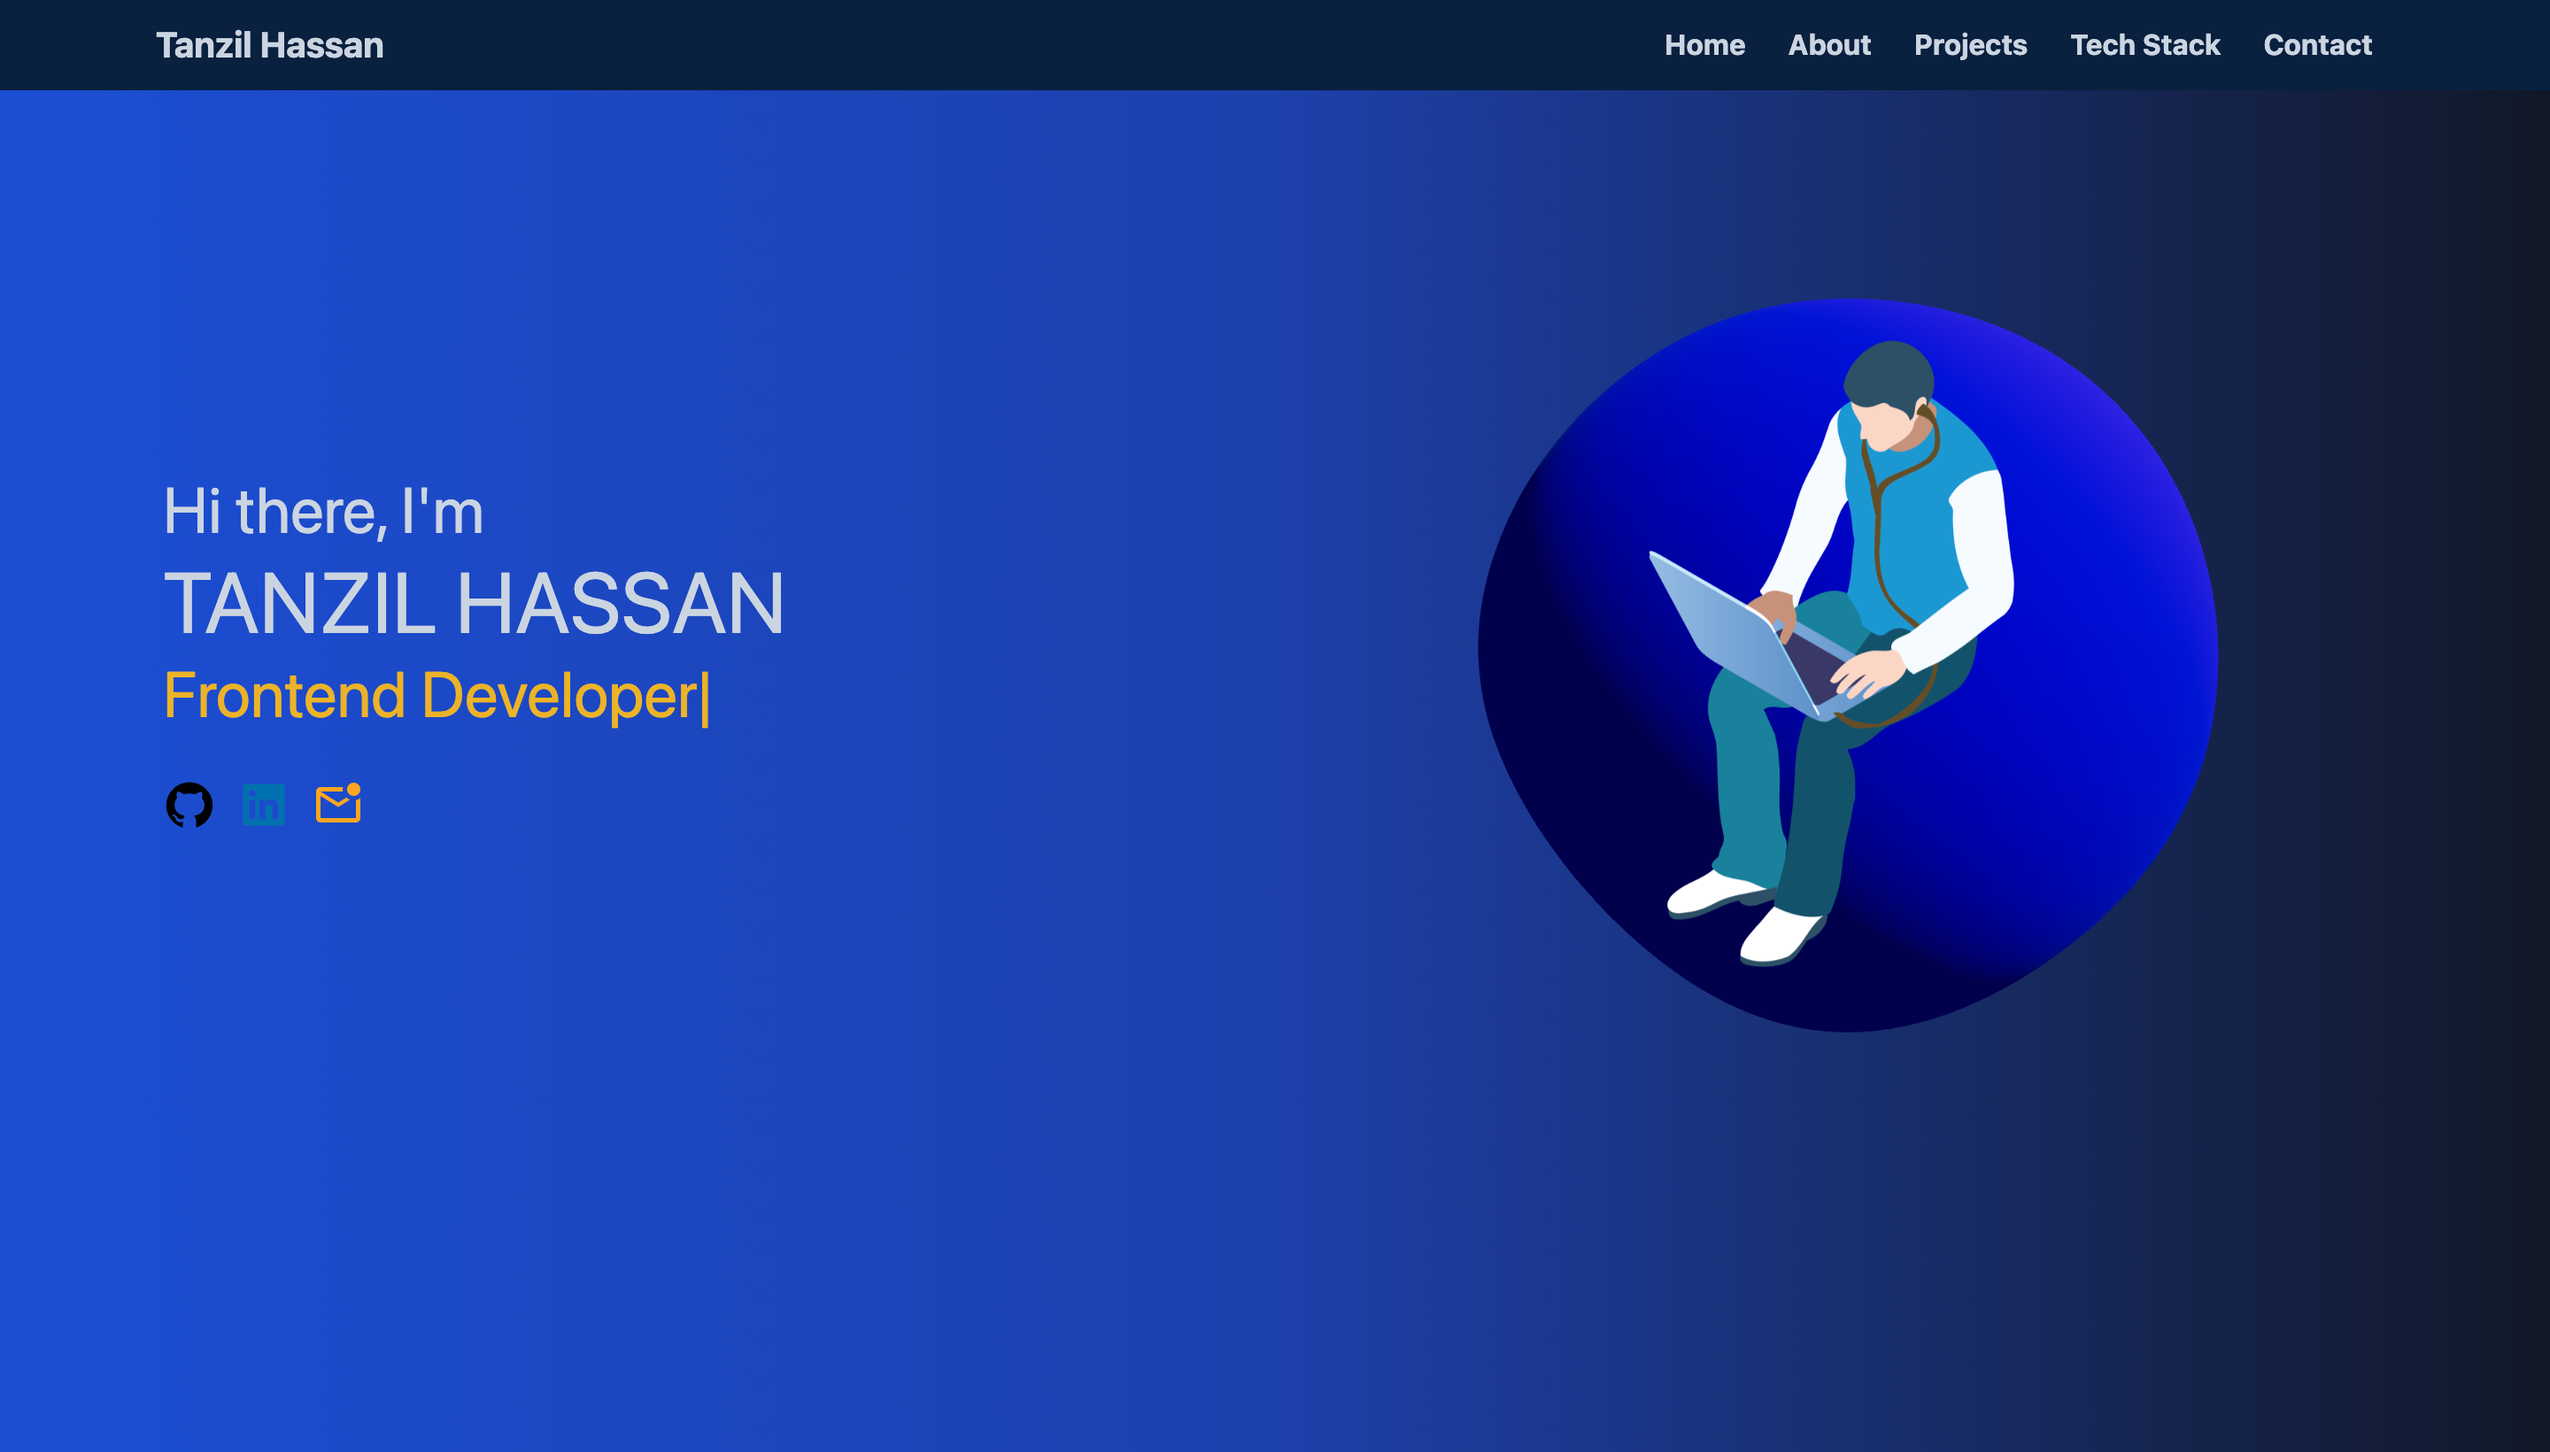
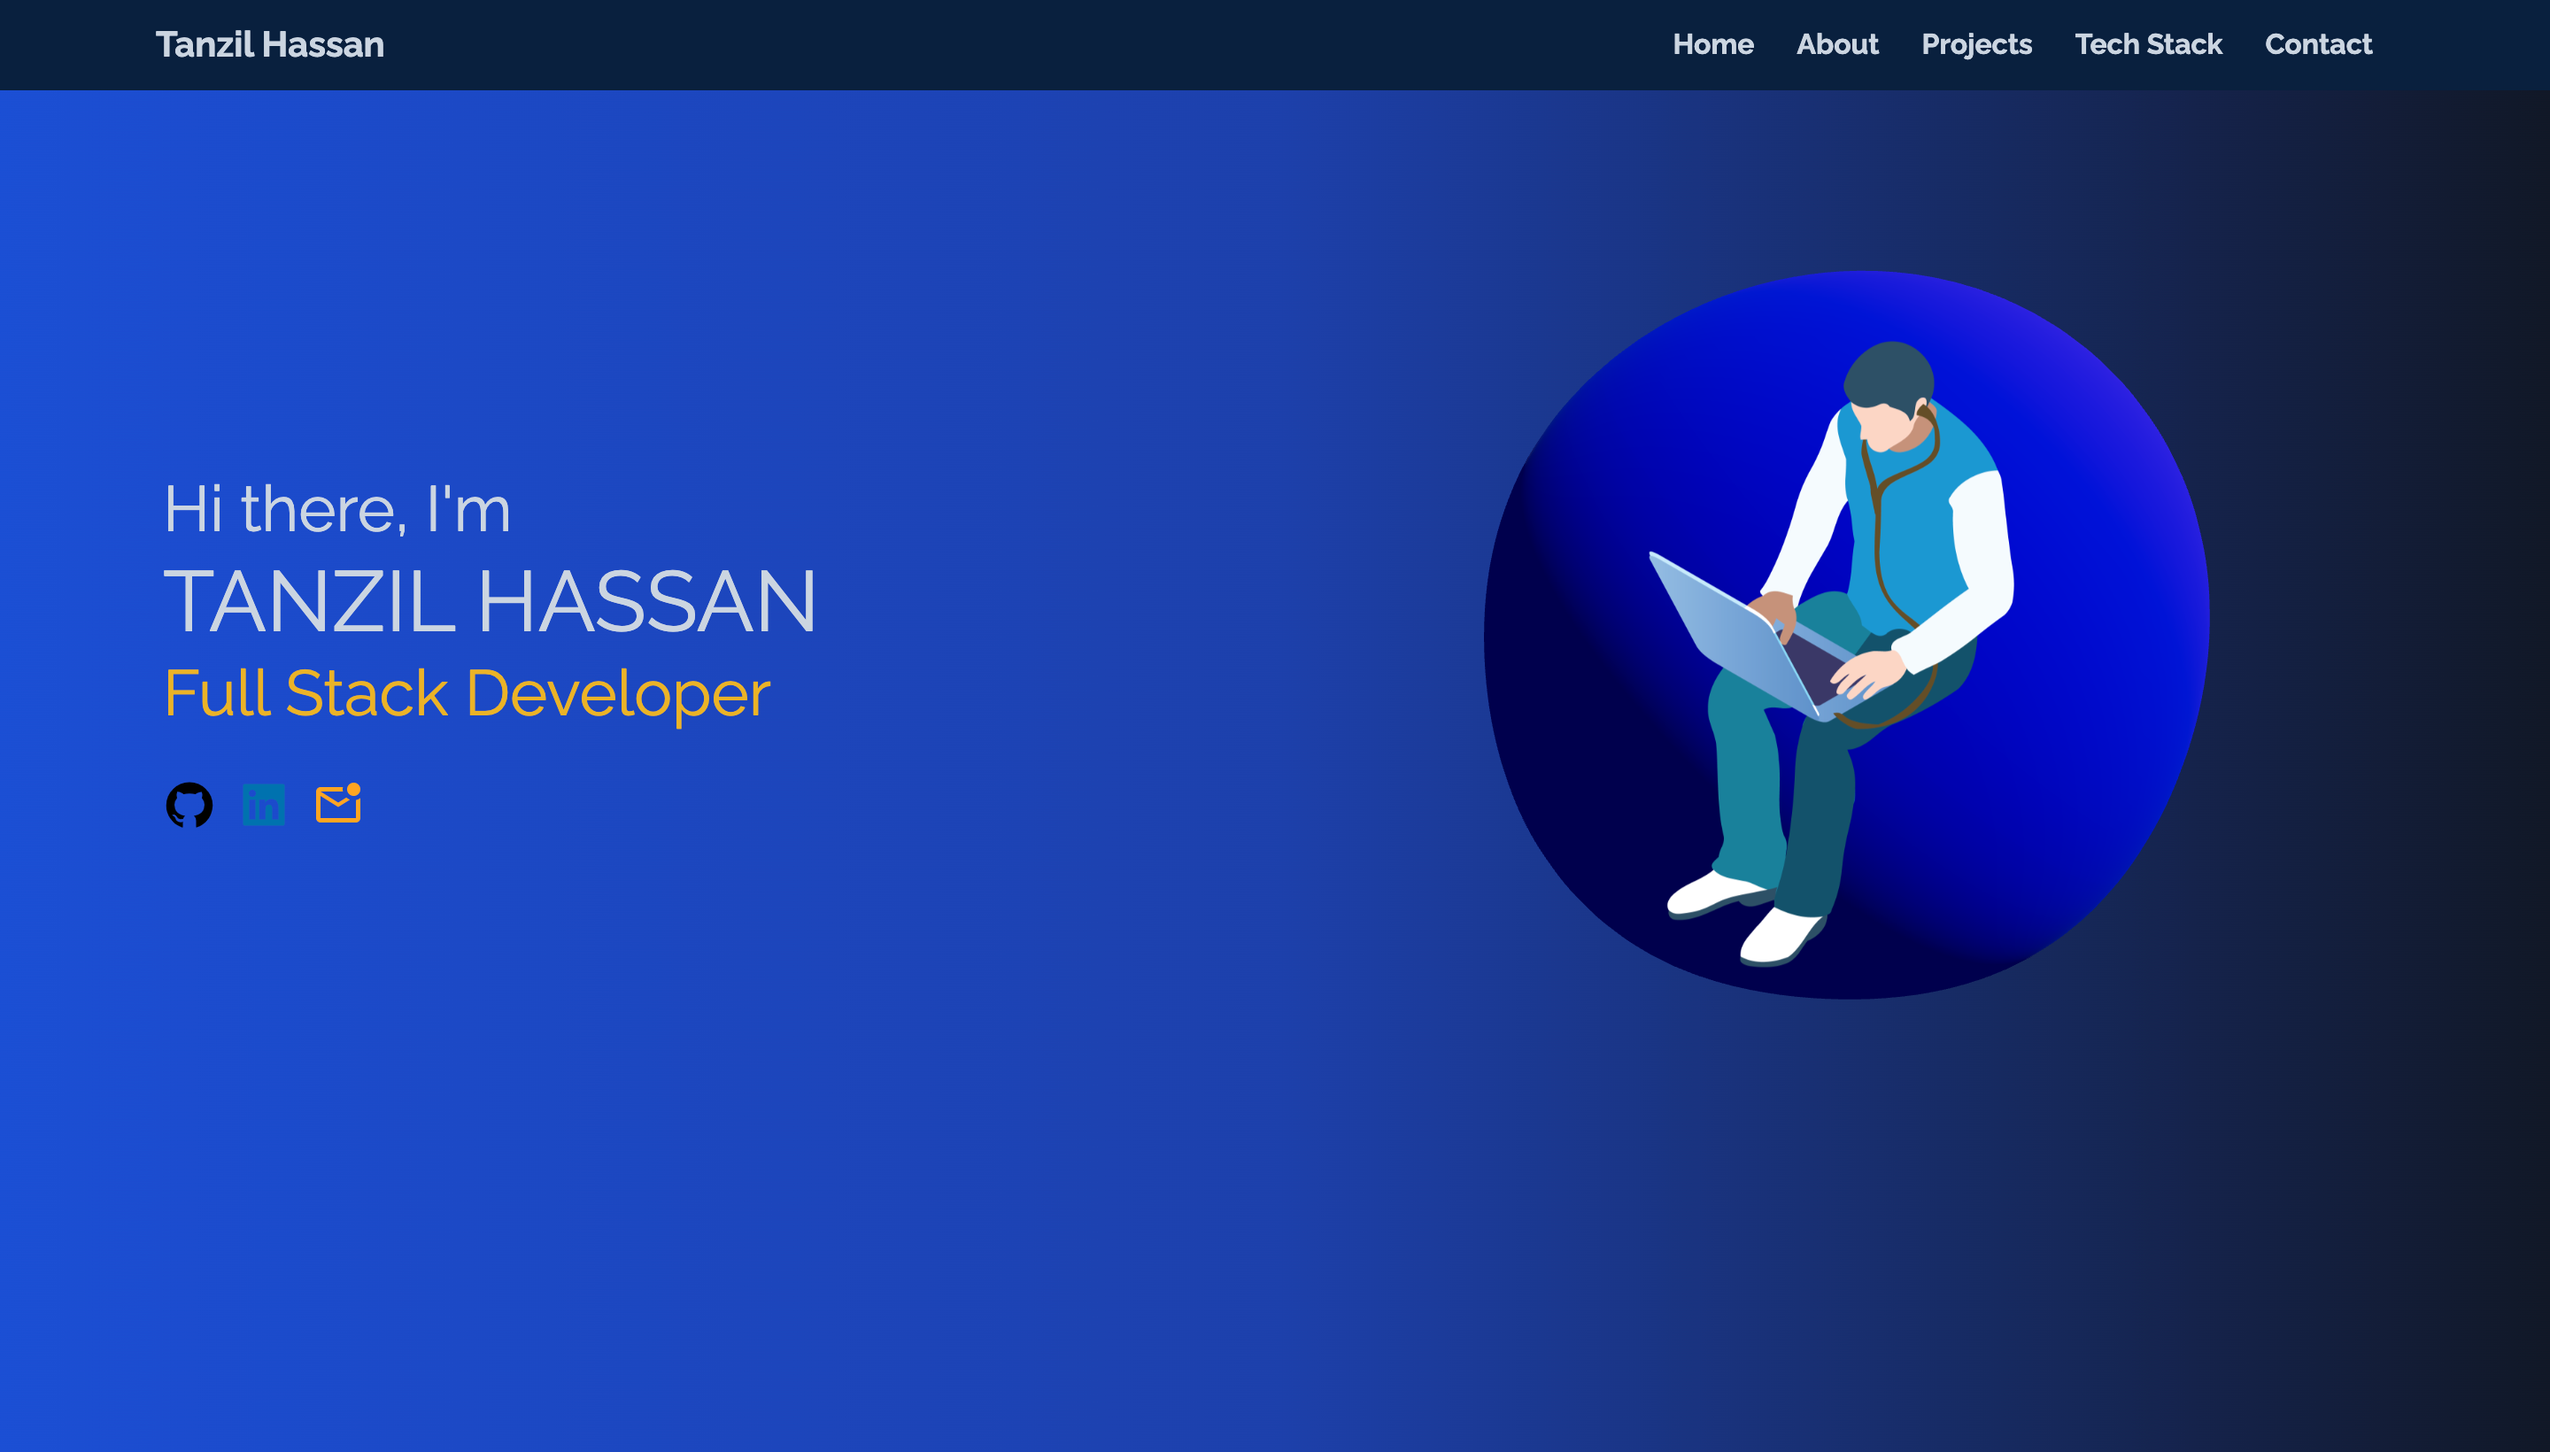
Changed font styling throughout website

diff --git a/src/components/About.jsx b/src/components/About.jsx
@@ -30,22 +30,21 @@ const About = () => {
           whileInView={"show"}
           viewport={{ once: true }}
         >
-          <h1 className="text-2xl lg:text-4xl text-slate-300 text-center font-bold">
+          <h1 className="text-2xl lg:text-4xl text-slate-300 text-center font-paragraph">
             About Me
           </h1>
-          <p className="text-lg lg:text-2xl text-slate-200">
+          <p className="text-lg lg:text-2xl text-slate-200 font-paragraph font-light">
             I graduated from John Jay College in June 2022 with a Bachelors of
             Science in Computer Science & Information Security. Growing up, I've
-            always been fascinated by computers, but I became truly interested
-            in computer science only after I attended a coding event at my
-            college.
+            always been fascinated by computers, which was furthered by the
+            coding events I attended at my college.
             <br />
             <br />I began my tech journey in Data Analytics as I loved to
             visualize my findings. However, after joining my school's Computer
-            Science Club, I realized that web development was my passion.
+            Science Club, I realized that web development was my true passion.
             Nowadays, I enjoy building React JS applications in my free time.
             I'm a lifelong learner and my eventual goal is to build apps in
-            React Native. I look forward to meeting you!
+            React Native. I look forward to meeting and working with you!
           </p>
           <div className="flex justify-center">
             <button className="bg-yellow-700 py-2 px-3 rounded-md font-bold hover:scale-110 duration-500 text-white w-48">

diff --git a/index.html b/index.html
@@ -4,6 +4,18 @@
     <meta charset="UTF-8" />
     <link rel="icon" type="image/svg+xml" href="/vite.svg" />
     <meta name="viewport" content="width=device-width, initial-scale=1.0" />
+    <link rel="preconnect" href="https://fonts.googleapis.com" />
+    <link rel="preconnect" href="https://fonts.gstatic.com" crossorigin />
+    <link
+      href="https://fonts.googleapis.com/css2?family=Raleway:ital,wght@0,100;0,200;0,300;0,400;0,500;0,600;0,700;0,800;0,900;1,100;1,200;1,300;1,400;1,500;1,600;1,700;1,800;1,900&display=swap"
+      rel="stylesheet"
+    />
+    <link rel="preconnect" href="https://fonts.googleapis.com" />
+    <link rel="preconnect" href="https://fonts.gstatic.com" crossorigin />
+    <link
+      href="https://fonts.googleapis.com/css2?family=Lato:ital,wght@0,100;0,300;0,400;0,700;0,900;1,100;1,300;1,400;1,700;1,900&display=swap"
+      rel="stylesheet"
+    />
     <title>Tanzil Portfolio</title>
   </head>
   <body>

diff --git a/src/components/Projects.jsx b/src/components/Projects.jsx
@@ -58,12 +58,12 @@ const Projects = () => {
         viewport={{ once: true }}
       >
         <div>
-          <h1 className="text-2xl lg:text-4xl text-slate-300 text-center md:text-start pb-5 font-bold">
+          <h1 className="text-2xl lg:text-4xl text-slate-300 text-center md:text-start pb-5 font-paragraph">
             My Projects
           </h1>
-          <p className="text-lg lg:text-2xl text-slate-200 text-center md:text-start">
+          <p className="text-lg lg:text-2xl text-slate-200 text-center md:text-start font-paragraph font-light">
             Check out my latest and favorite projects! The projects range in
-            simplicity from a school club landing page to an entire full stack
+            complexity from a school club landing page to an entire full stack
             application with a working frontend & backend.
           </p>
         </div>

diff --git a/src/components/Contact.jsx b/src/components/Contact.jsx
@@ -15,14 +15,14 @@ const Contact = () => {
         whileInView={"show"}
         viewport={{ once: true }}
       >
-        <h1 className="text-2xl lg:text-4xl text-slate-300 text-center font-bold pb-4">
+        <h1 className="text-2xl lg:text-4xl text-slate-300 text-center font-paragraph pb-4">
           Contact Me
         </h1>
         <div className=" flex justify-center items-center">
           <form
             action="https://getform.io/f/4fce2d25-d217-4550-85fd-733f2556b954"
             method="POST"
-            className=" flex flex-col w-full md:w-1/2 gap-4"
+            className=" flex flex-col w-full md:w-3/4 gap-4"
           >
             <input
               type="text"

diff --git a/src/components/ProjectCard.jsx b/src/components/ProjectCard.jsx
@@ -14,7 +14,7 @@ const ProjectCard = ({ overview, title, githubLink, demo }) => {
   };
 
   return (
-    <div className="bg-gradient-to-br from-blue-700 via-blue-800 to-gray-900 shadow-lg shadow-sky-600 rounded-lg overflow-hidden">
+    <div className="bg-gradient-to-br from-blue-700 via-blue-800 to-gray-900 shadow-lg shadow-sky-600 rounded-lg overflow-hidden font-paragraph">
       <div>
         <img src={overview} alt={title} />
         <div className="text-center text-white text-lg font-semibold">

diff --git a/src/components/Footer.jsx b/src/components/Footer.jsx
@@ -4,7 +4,7 @@ const Footer = () => {
   return (
     <footer className="bg-[#09203F] py-2">
       <div className="xl:container mx-auto">
-        <div className="flex flex-col justify-center items-center text-white">
+        <div className="flex flex-col justify-center items-center text-white font-display">
           <p>©Tanzil Hassan</p>
           <p className="text-center">
             2 5d PNG Designed By 588ku from <br />

diff --git a/src/App.jsx b/src/App.jsx
@@ -10,7 +10,7 @@ import Footer from "./components/Footer";
 function App() {
   return (
     // spread background color to all components
-    <div className="bg-gradient-to-r from-blue-700 via-blue-800 to-gray-900 overflow-x-hidden">
+    <div className="bg-gradient-to-r from-blue-700 via-blue-800 to-gray-900 overflow-x-hidden font-display">
       <Header />
       <Hero />
       <About />

diff --git a/src/components/Header.jsx b/src/components/Header.jsx
@@ -37,7 +37,7 @@ const Header = () => {
       transition={{ delay: 0.5, duration: 1.5 }}
     >
       <div className="xl:container mx-auto py-3 px-2">
-        <div className="flex justify-between items-center">
+        <div className="flex justify-between items-center font-display">
           <div>
             <h1 className="font-bold text-xl">Tanzil Hassan</h1>
           </div>

diff --git a/src/components/TechStack.jsx b/src/components/TechStack.jsx
@@ -74,7 +74,7 @@ const TechStack = () => {
         viewport={{ once: true }}
       >
         <div>
-          <h1 className="text-2xl lg:text-4xl text-slate-300 text-center font-bold">
+          <h1 className="text-2xl lg:text-4xl text-slate-300 text-center font-paragraph">
             My Tech Stack
           </h1>
         </div>
